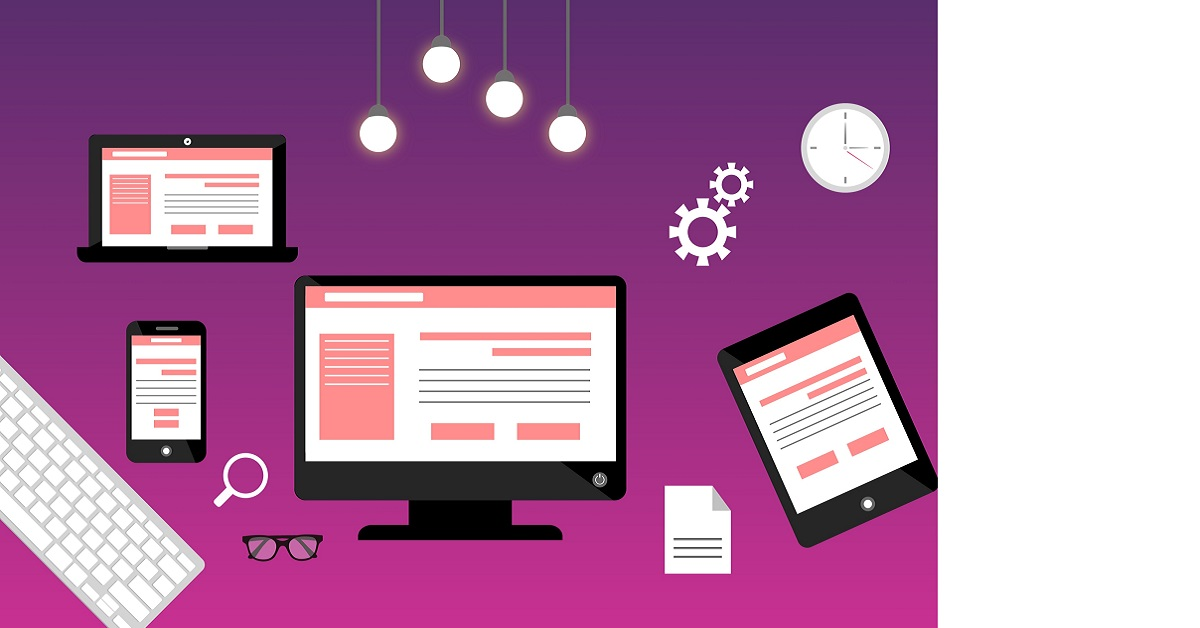
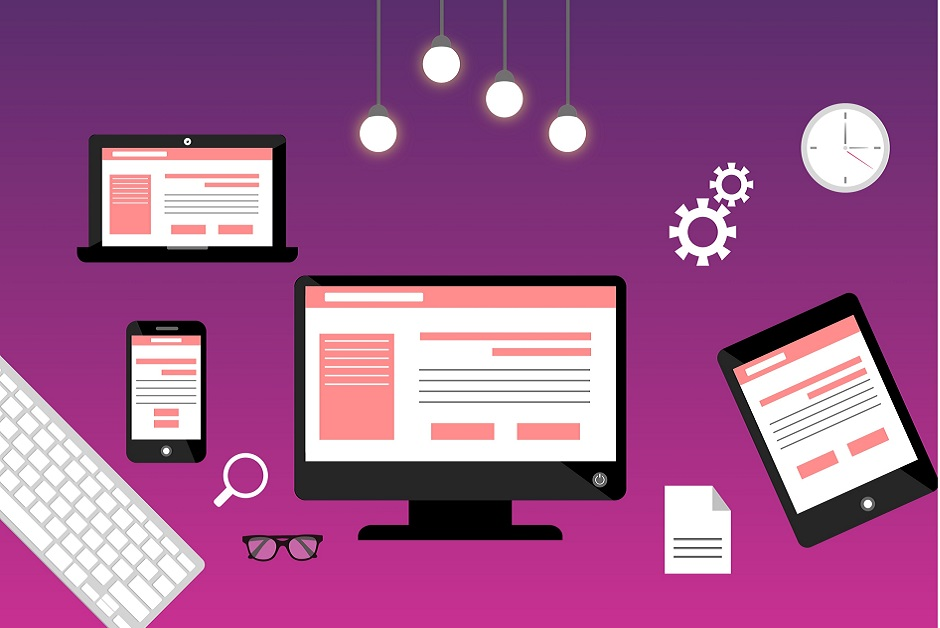
Fixing image thumnail width

diff --git a/pages/index.js b/pages/index.js
@@ -15,11 +15,11 @@ export default function Home() {
       <Head>
         <title>InfoTech Soluções</title>
         <meta name="description" content="Manutenção de Computadores e Desenvolvimento de Sites" />
-        <meta property="og:image" content="https://my-page-macuco97.vercel.app/api/website.jpg" />
+        <meta property="og:image" itemprop="image" content="https://my-page-macuco97.vercel.app/api/website.jpg" />
         <meta property="og:image:secure_url" content="https://my-page-macuco97.vercel.app/api/website.jpg" />
         <meta property="og:image:type" content="image/jpg" />
-        <meta property="og:image:width" content="1200" />
-        <meta property="og:image:height" content="630" />
+        <meta property="og:image:width" content="300" />
+        <meta property="og:image:height" content="300" />
 
         <link rel="icon" href="/favicon.ico" />
       </Head>
